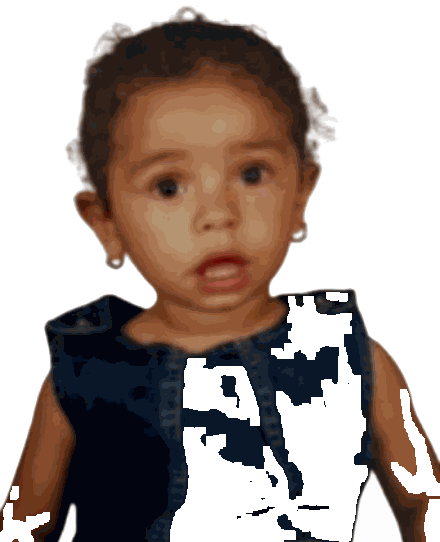
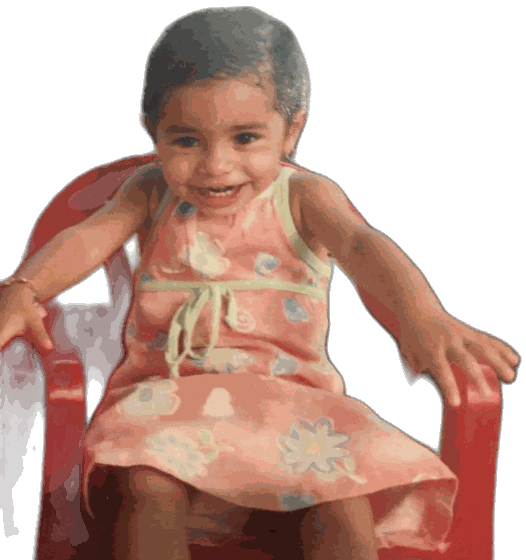
Couper le soleil par la page et refaire les photos d'enfance
Le soleil de fin est tronque avant le bas de son disque et la section n'a
plus de padding bas : c'est le bord de la page qui le coupe. Les photos
d'enfance sont detourees par segmentation depuis les originaux fournis
par Adham, 560 px de haut, 256 couleurs, 60 Ko chacune. Originaux
conserves dans assets/.

Claude-Session: https://claude.ai/code/session_01L1KSdpdw8eBMkTSTbBFb4v

diff --git a/src/content/assets.ts b/src/content/assets.ts
@@ -11,10 +11,10 @@ export const assets = {
   ribbon: { src: '/images/ribbon.png', width: 943, height: 1223 },
   /** Dessin au trait, texte « Bride & Groom » inclus dans l'image. */
   couple: { src: '/images/couple.png', width: 377, height: 572 },
-  babyA: { src: '/images/baby-adham.png', width: 566, height: 520 },
-  babyB: { src: '/images/baby-lara.png', width: 440, height: 542 },
+  babyA: { src: '/images/baby-adham.png', width: 350, height: 560 },
+  babyB: { src: '/images/baby-lara.png', width: 526, height: 560 },
   /** Demi-soleil de fin de page, dessiné par Adham, initiales gravées dans l'image. */
-  sunEnd: { src: '/images/sun-end.png', width: 1200, height: 603 },
+  sunEnd: { src: '/images/sun-end.png', width: 1200, height: 537 },
   /** Film d'intro (enveloppe, sceau, carte), sans piste audio. Le poster est sa première image : l'enveloppe fermée de la gate. */
   intro: { src: '/video/intro.mp4', poster: '/video/intro-poster.jpg', width: 720, height: 1280 },
 } as const

diff --git a/src/styles/sections.css b/src/styles/sections.css
@@ -24,12 +24,14 @@
 }
 
 /*
- * Fin de page (croquis de Lara) : la phrase, un lien discret, puis le
- * demi-soleil dessiné, initiales comprises, posé sur le bord bas de la page.
+ * Fin de page (croquis de Lara) : la phrase, un lien discret, puis le soleil
+ * dessiné, initiales comprises, que le bord de la page coupe. Aucun padding
+ * bas, aucune marge : la découpe est tronquée avant le bas du disque, pour
+ * que ce soit la page qui coupe le soleil, pas l'image qui s'arrête.
  * Jamais plus large que la colonne : un débordement décale toute la page sur iOS.
  */
 .section--end {
-  padding: 3rem 0 max(0.75rem, env(safe-area-inset-bottom));
+  padding: 3rem 0 0;
 }
 
 .section--end .stack {
@@ -50,6 +52,7 @@
 }
 
 .end__sun {
+  display: block;
   width: 100%;
   max-width: 440px;
   height: auto;

diff --git a/docs/DECISIONS.md b/docs/DECISIONS.md
@@ -54,3 +54,5 @@
 | 2026-09-13 | 2 | Découpe du soleil nettoyée hors du disque : blanc résiduel du fond et liseré clair retirés, bord adouci d'un pixel ; le disque n'est pas touché | Restes du détourage automatique visibles sur le pêche. Un premier essai touchait aussi le disque et y creusait des trous dans les reflets. |
 | 2026-09-13 | 2 | Initiales de fin gravées dans le disque : brun doré profond, filet clair dessous, filet sombre dessus | Adham : brun sur or « pas pro ». La gravure rappelle le sceau de cire du film et laisse l'or être la matière. |
 | 2026-09-13 | 2 | Fin de page : demi-soleil dessiné par Adham (`assets/sun_end.png`), initiales gravées dans l'image, détouré vers `public/images/sun-end.png` en 1200 px et 256 couleurs | Le soleil photo posé sur une page illustrée faisait collage. Le dessin est dans le style de la carte. Plus de monogramme en CSS. |
+| 2026-09-13 | 2 | Soleil de fin tronqué à 89 % de sa hauteur, sans padding bas : c'est la page qui coupe le disque, plus l'image qui s'arrête sur son filet | Demande d'Adham. Le filet et le bas plat du disque partent de la découpe. |
+| 2026-09-13 | 2 | Photos d'enfance détourées par segmentation (`rembg`, modèles isnet pour Adham, u2net_human_seg pour Lara) depuis les originaux fournis le 2026-09-13, réduites à 560 px de haut, 256 couleurs, ~60 Ko chacune | Les anciennes découpes venaient de scans avec reflets. La chaise rouge de Lara reste, tous les modèles la gardent : elle y est assise, les bras dessus. Originaux dans `assets/`. Outil hors dépôt, `pip install rembg[cpu]`. |
